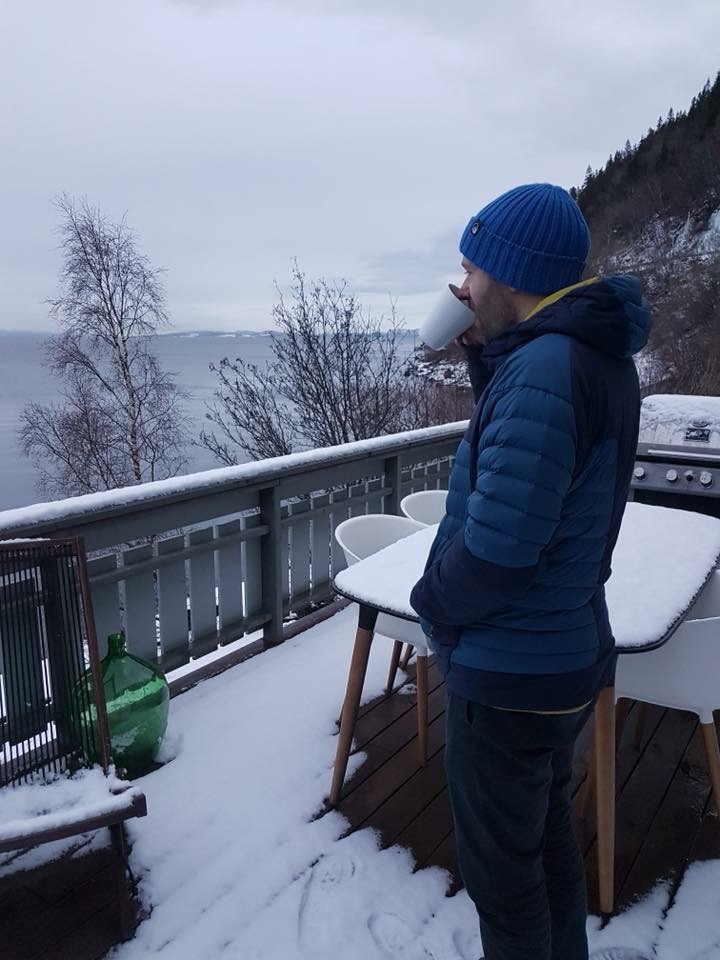
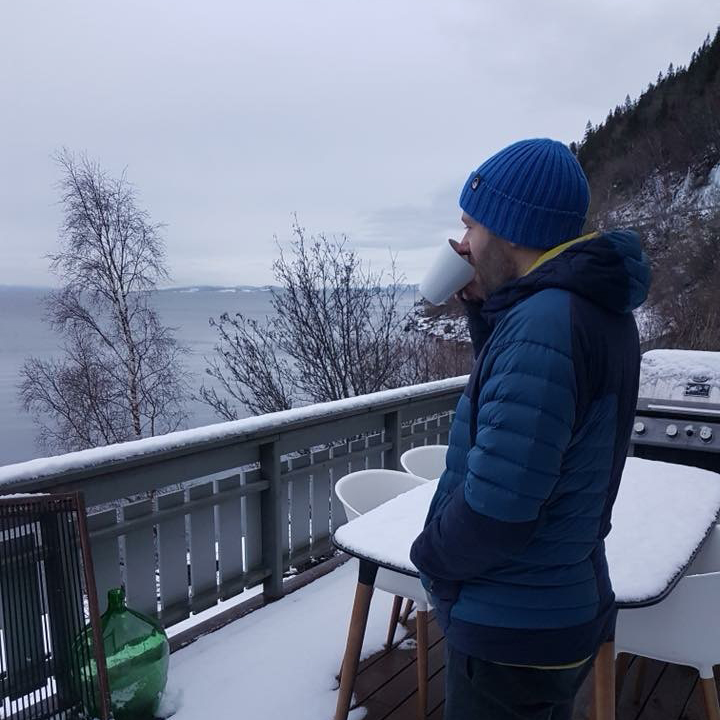
more edits

diff --git a/index.html b/index.html
@@ -1,5 +1,5 @@
 ---
 layout: home
-title: My website
-subtitle: This is where I will tell my friends way too much about me
+title: Louis Harwood
+subtitle: Whatever I'm working on
 ---

diff --git a/aboutme.md b/aboutme.md
@@ -1,7 +1,7 @@
 ---
 layout: page
 title: About me
-subtitle: Why you'd want to go on a date with me
+subtitle: My Eclectic Work and Hobbies
 ---
 
 My name is Inigo Montoya. I have the following qualities:
